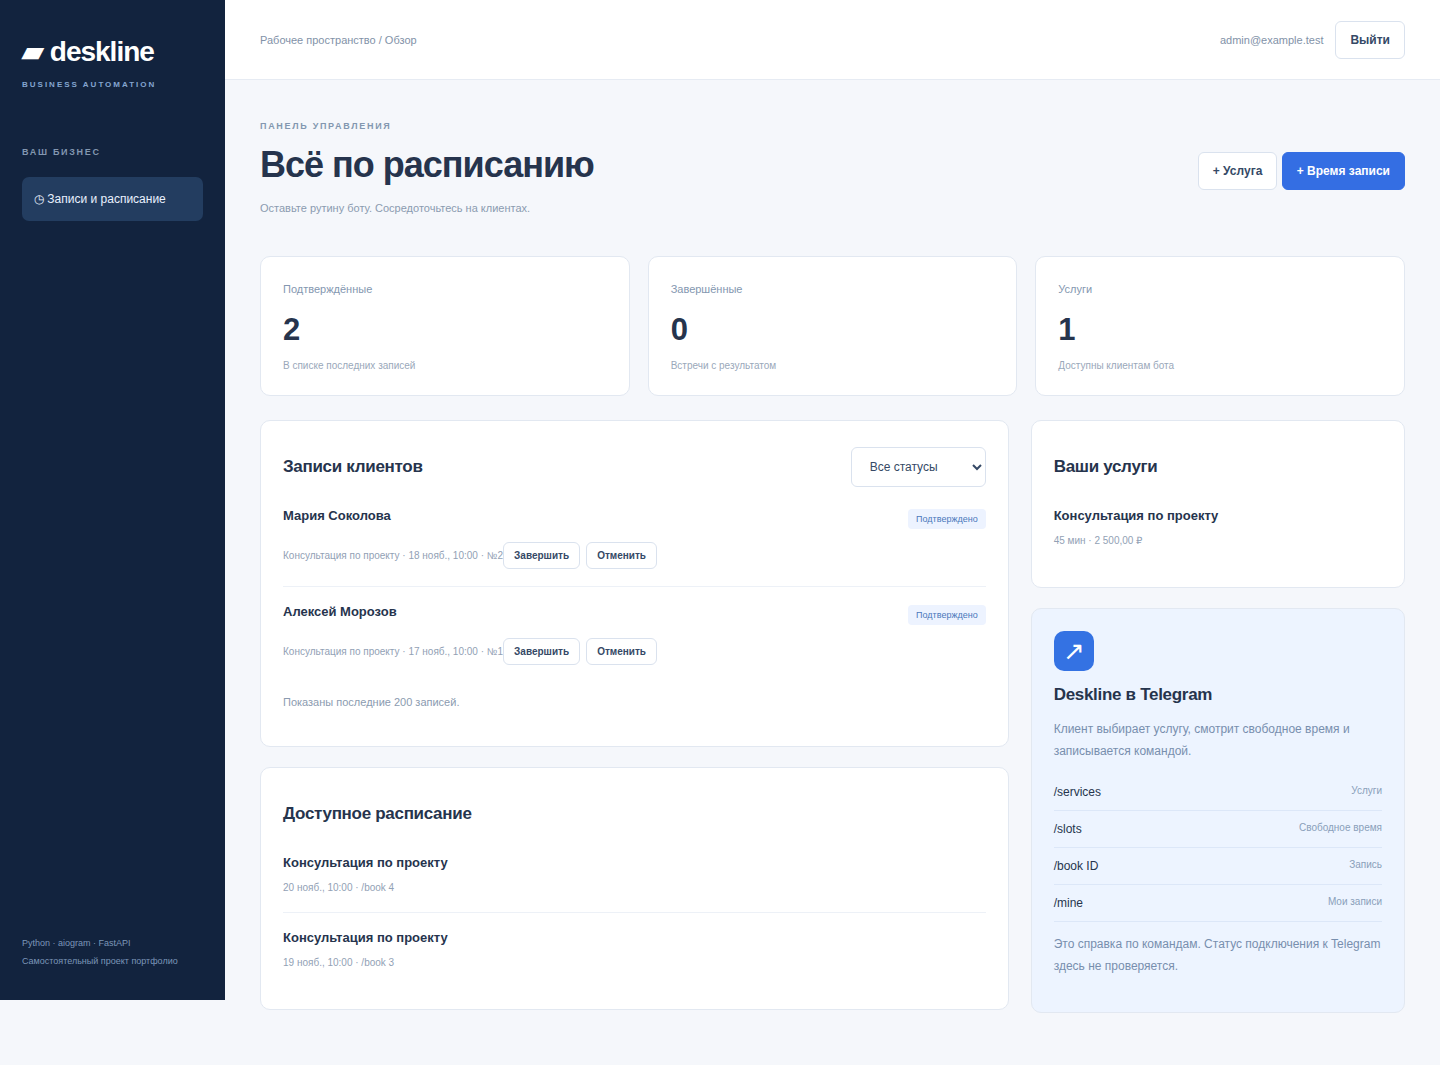
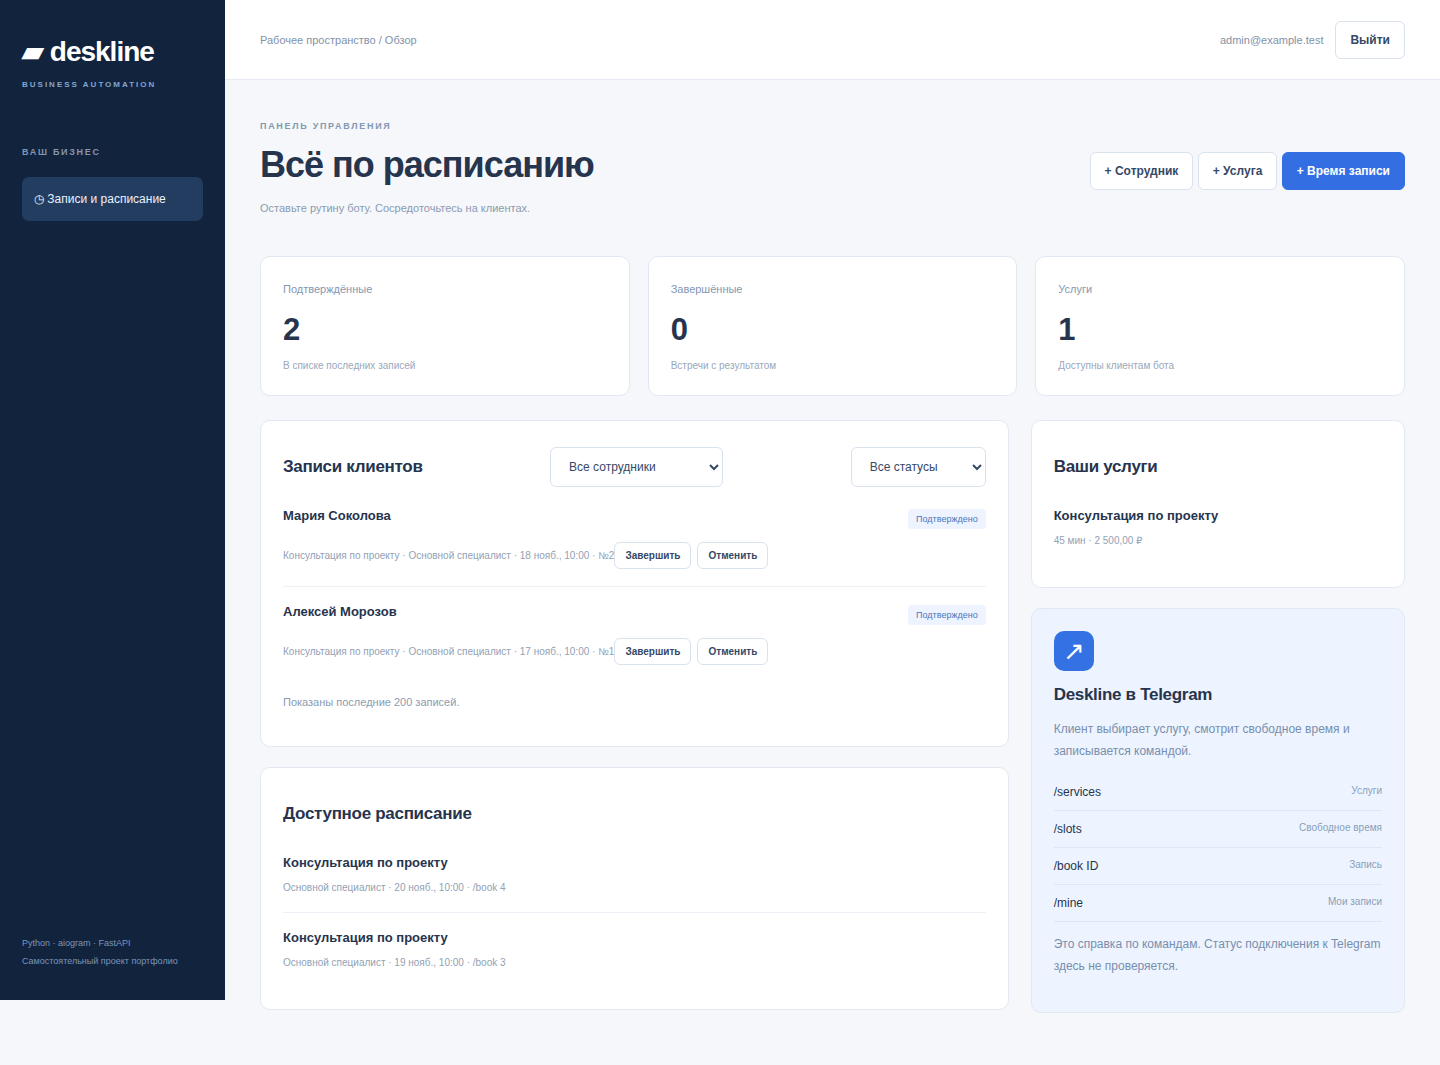
Record employee schedule acceptance and reviewed screenshots

diff --git a/docs/ACCEPTANCE.md b/docs/ACCEPTANCE.md
@@ -9,3 +9,8 @@
 [CI 43907341139](https://github.com/rvrhxg/Telegram-Business-Bot/actions/runs/43907341139) на 34296e0: Python 3.12, 3.13, 3.14, Docker/runtime и Chromium успешны; 9 тестов с проверками пересечения интервалов. После этого добавлен отдельный тест конкурентной записи: локально полный набор 10 passed на Python 3.14, CI повторяется. Реальная Telegram-доставка не проверена.
 
 [Финальный CI 43909764342](https://github.com/rvrhxg/Telegram-Business-Bot/actions/runs/43909764342) на 6b4d66d: 10 тестов с конкурентной гонкой успешны на Python 3.12, 3.13 и 3.14; Docker/runtime и Chromium успешны.
+
+
+## Расписания сотрудников
+
+[CI 43919717118](https://github.com/rvrhxg/Telegram-Business-Bot/actions/runs/43919717118) на 611de43: 12 тестов успешны на Python 3.12, 3.13, 3.14; Ruff E9/F, strict mypy интервалов, Docker build/runtime/persistence и Chromium успешны. Браузер создал сотрудника и его слот, выбрал фильтр сотрудника и завершил существующую запись. Скриншоты1440/390px получены из этого CI и просмотрены визуально. Тест переноса первоначальной базы сохранил ID и внешние ключи. Реальная Telegram-доставка по-прежнему не проверена.
